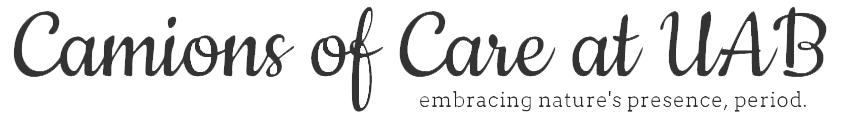
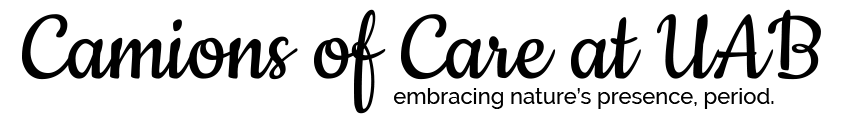
new header

Changed region(s): [[0.0, 0.05, 0.9881, 0.95], [0.1853, 0.125, 0.2162, 0.25]]

diff --git a/index.html b/index.html
@@ -88,9 +88,9 @@
             <div class="single-item">
                 <div><img src="img/carousel/1.jpg"></div>
 				<div><img src="img/carousel/3.jpg"></div>
-                <div><img src="img/carousel/4.jpg"></div>
+                <div><img src="img/carousel/2.png"></div>
 				<div><img src="img/carousel/5.jpg"></div>
-				<div><img src="img/carousel/2.png"></div>
+				<div><img src="img/carousel/4.jpg"></div>
             </div>
         </div>
     </div>
@@ -100,7 +100,7 @@
         <div class="col-sm-12 col-lg-12 text-center">
             <h5 class="info-title">What We Do</h5>        
         </div>
-			<h3 class="info-title text-center">Our purpose is to promote menstrual hygiene management and to<br><b>empower women through advocacy, education, and service.</b><br>The UAB Chapter of Camions of Care seeks to raise awareness<br>and serve the Birmingham community.</h3>        
+			<h3 class="info-title text-center">Our purpose is to promote menstrual hygiene management and to<br><b>empower women through advocacy, education, and service.</b><br>The UAB Chapter of Camions of Care seeks to raise awareness<br>and serve the Birmingham, Alabama community.</h3>        
 		<br>
 			<center><a target="newtab" href="http://camionsofcare.org" class="btn btn-default btn-xl">The National Organization</a></center>
 	</div>

diff --git a/involve.html b/involve.html
@@ -85,7 +85,7 @@
     <div class="row">
 <div style="text-align: center;">
 <h5 class="info-title">Join our chapter today!</h5>
-<h3 class="info-title text-center">We are an up and coming organization eager to create an impact on the Birmingham community. Membership is open to all students interested in advocacy, education, and service related to menstrual hygiene and health, regardless of major. Please fill out an application for our records. We welcome all new members who support our cause!</h3>
+<h3 class="info-title text-center">We are an up and coming organization eager to create an impact on the Birmingham community.<br>Membership is open to all students interested in advocacy, education, and service related to menstrual hygiene and health, regardless of gender or major. Please fill out an application for our records below.<br><b>We welcome all new members who support our cause!</b></h3>
 <br>
 <a target="newtab1" href="https://docs.google.com/forms/d/1XvOFSNtxub25dcXoQ1F7kXaVAX8_tfWr8_NtelBg4F4/viewform" class="btn btn-primary btn-xl page-scroll">Join Us</a>
 </div>
